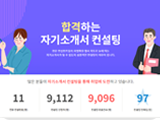
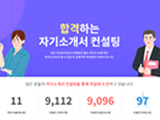
취업역량강화

diff --git a/html/취업역량강화_메인.html b/html/취업역량강화_메인.html
@@ -34,7 +34,7 @@
 			<div class="header">
 				<div class="containerNew">
 					<h3 class="f40">친절한 취업 도우미 잡아바</h3>
-					<p class="f18 mt10">대한민국 청년들이 더 쉽게 취업할 수 있도록 잡아바에서 Onestop으로 해결해드립니다!</p>
+					<p class="f18 mt10">대한민국 청년들이 더 쉽게 취업할 수 있도록 잡아바에서 ONESTOP으로 해결해드립니다!</p>
 
 					<p class="f15 mt30">취업준비 무엇부터 시작해야할지 아직도 모르시겠다구요?<br>
 						잡아바에서 제공하는 가이드만 따라가면 취업할 수 있어요!</p>
@@ -150,7 +150,7 @@
 						<h4 class="er_tit">취업 준비가 어느정도 준비 된 나! 전문가의 손길이 필요해요!</h4>
 						<div class="white_box">
 							<div>
-								<div class="img">
+								<div class="img imgBorder">
 									<img src="images/empRef/program07.png" alt="자기소개서 컨설팅">
 								</div>
 								<div class="txt">

diff --git a/html/css/empRef.css b/html/css/empRef.css
@@ -40,7 +40,8 @@
 .empRef_area .item .er_tit{font-size: 24px;font-weight: 500;margin-bottom: 20px}
 .empRef_area .item .white_box{display: flex;justify-content: space-between}
 .empRef_area .item .white_box > div{display: flex;align-items: flex-start;justify-content: space-between;width: calc(50% - 10px)}
-.empRef_area .item .white_box > div .img{border: 1px solid #dcdcdc;border-radius: 10px;overflow: hidden;width: 160px}
+.empRef_area .item .white_box > div .img{border-radius: 10px;overflow: hidden;width: 160px}
+.empRef_area .item .white_box > div .img.imgBorder{border: 1px solid #e6e6e6}
 .empRef_area .item .white_box > div .img img{display: block;width: 100%}
 .empRef_area .item .white_box > div .txt{width: calc(100% - 180px)}
 .empRef_area .item .white_box .txt .tit{font-weight: 700;}
